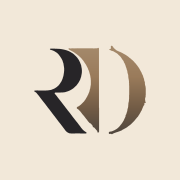
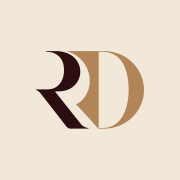
Re-trace the RD monogram from the clearer artwork in the site palette

Changed region(s): [[0.1944, 0.25, 0.8333, 0.75]]

diff --git a/components/Logo.jsx b/components/Logo.jsx
@@ -1,20 +1,12 @@
-// "RD" monogram, traced to vector from the supplied artwork. The R is the
-// ink colour and the D carries a bronze gradient; both follow the theme
-// (see --logo-* in globals.css) so the mark stays visible on dark backgrounds.
-// The favicon files in app/ are raster renders of the same artwork.
+// "RD" monogram, traced to vector from the supplied artwork and recoloured to
+// the site palette: the R takes the ink colour, the D the caramel accent, and
+// both follow the theme (--logo-r / --logo-d in globals.css) so the mark stays
+// visible on dark backgrounds. The favicon files in app/ are raster renders.
 export default function Logo() {
   return (
-    <svg viewBox="50.36 13.07 133.26 106.00" role="img" aria-label="RD">
-      <defs>
-        <linearGradient id="logo-d" gradientUnits="userSpaceOnUse" x1="0" y1="14.6" x2="0" y2="117.6">
-          <stop offset="0" style={{ stopColor: 'var(--logo-g0)' }} />
-          <stop offset="0.35" style={{ stopColor: 'var(--logo-g1)' }} />
-          <stop offset="0.7" style={{ stopColor: 'var(--logo-g2)' }} />
-          <stop offset="1" style={{ stopColor: 'var(--logo-g3)' }} />
-        </linearGradient>
-      </defs>
-      <path fill="var(--logo-r)" fillRule="evenodd" d="M70.63 17.74 70.24 18.14 70.29 18.45 70.53 18.69 73.50 19.73 75.12 20.47 77.88 22.19 79.00 23.13 80.31 24.50 82.08 26.88 83.76 29.50 84.81 31.62 85.99 35.50 86.73 40.50 86.75 43.12 85.92 49.38 84.74 53.25 83.44 56.12 81.82 58.62 80.35 60.50 77.88 62.74 75.88 64.07 74.38 64.82 71.38 65.98 68.50 66.46 65.00 66.75 56.88 66.75 55.12 66.62 52.75 66.76 52.05 66.99 51.86 67.26 51.90 67.58 54.24 69.39 57.04 72.75 88.10 113.38 89.75 115.08 90.88 115.83 92.50 116.61 95.12 116.99 104.50 116.88 111.38 117.00 112.36 116.85 112.75 116.47 112.58 115.89 109.25 113.35 106.66 110.50 102.29 104.62 96.80 97.75 92.70 92.25 76.03 70.88 75.58 70.00 75.80 69.41 76.50 69.03 82.00 69.00 86.50 68.71 88.00 68.45 91.25 67.41 93.62 66.39 97.00 64.33 101.06 60.62 103.29 57.62 105.33 53.88 106.50 50.38 107.11 47.25 107.38 44.88 107.20 41.12 106.48 37.12 105.34 34.12 103.52 30.50 102.06 28.38 100.75 26.88 97.12 23.52 92.38 20.72 89.88 19.73 87.25 18.97 82.50 18.07 75.25 17.63z" />
-      <path fill="url(#logo-d)" fillRule="evenodd" d="M92.61 17.42 92.30 17.69 92.27 18.02 92.91 18.85 98.38 21.98 101.75 24.39 104.12 26.32 106.78 28.89 109.49 32.25 112.57 37.00 114.24 40.25 115.49 43.25 117.03 48.38 117.74 52.38 118.00 56.12 117.82 60.62 117.27 63.88 116.34 67.50 114.86 71.25 112.19 76.25 110.11 79.24 106.12 83.29 102.25 86.07 101.86 86.67 101.85 87.34 102.33 88.07 104.25 89.76 105.86 91.50 115.29 103.36 118.64 106.27 119.53 107.38 120.62 109.22 122.31 110.59 124.86 113.50 125.93 115.31 126.33 115.56 126.69 115.53 127.09 115.23 127.35 114.72 127.50 113.12 127.38 19.25 127.22 17.68 126.89 17.17 126.22 16.98 124.50 17.22 121.50 17.34 102.62 17.24zM142.30 14.57 141.92 14.69 141.65 14.99 141.20 17.19 140.85 17.67 139.97 18.39 139.97 18.74 141.38 19.62 144.12 20.63 145.50 21.34 148.25 23.01 150.05 24.51 152.33 26.75 153.53 28.25 156.06 32.00 157.96 35.88 160.41 43.12 161.61 48.38 161.95 51.75 162.56 55.50 162.88 62.62 162.71 76.38 162.50 78.88 161.94 82.00 161.63 85.62 160.39 91.25 158.20 97.88 156.49 101.62 154.84 104.38 152.19 107.88 150.12 110.10 148.25 111.64 145.62 113.20 142.88 114.40 140.16 115.09 139.36 115.73 139.20 116.58 139.65 117.22 140.27 117.40 142.38 117.57 143.38 117.38 145.88 116.29 153.12 113.70 159.88 109.91 163.88 106.91 165.75 105.24 168.67 102.25 172.86 97.25 174.83 94.25 177.08 90.25 179.15 85.51 180.18 83.60 180.71 81.84 181.80 80.49 181.37 76.75 182.02 72.62 182.12 65.62 181.95 62.75 181.27 59.62 180.96 56.88 179.94 52.88 178.79 49.38 176.98 45.38 174.74 41.25 171.44 36.50 167.25 31.78 161.12 26.66 158.62 24.97 154.75 22.78 148.00 19.56 145.40 17.41 143.28 14.99 142.73 14.65z" />
+    <svg viewBox="414.0 266.4 653.0 415.9" role="img" aria-label="RD">
+      <path fill="var(--logo-r)" fillRule="evenodd" d="M418.5 271.2 418.0 272.0 418.2 272.8 419.3 273.5 420.7 273.7 550.3 273.7 557.7 274.0 569.3 275.5 577.0 277.0 584.0 278.9 596.3 283.8 602.7 287.3 610.3 292.6 616.0 297.4 621.6 303.0 627.9 311.3 631.6 317.3 635.4 325.3 638.4 334.0 640.2 340.3 641.9 349.0 643.0 356.3 643.7 369.7 643.7 375.7 642.9 386.7 640.6 400.7 637.8 411.3 634.7 419.7 631.1 427.3 627.1 434.0 623.0 440.0 619.3 444.7 612.7 451.3 603.7 458.4 598.7 461.5 594.7 463.6 586.7 467.0 582.7 468.3 572.0 470.6 557.3 472.0 499.3 472.0 497.5 472.6 497.0 473.4 497.1 474.0 498.0 475.0 505.3 478.8 510.0 482.1 513.7 485.3 519.9 492.0 582.5 571.7 625.2 626.7 652.7 662.7 657.4 668.3 661.7 672.0 666.0 674.8 670.0 676.4 675.0 677.6 680.7 678.0 688.0 678.0 691.3 677.7 707.7 677.7 710.3 677.9 713.0 677.7 762.3 677.7 765.7 678.0 770.0 677.6 771.2 677.1 771.4 676.0 770.3 675.0 761.0 672.8 756.7 671.5 745.0 665.7 741.3 663.1 737.0 659.3 732.4 654.3 685.8 596.0 633.5 529.7 599.8 487.7 597.4 484.0 597.8 482.9 599.3 482.4 625.7 481.6 635.7 480.6 641.7 479.6 654.7 476.4 661.0 474.3 668.3 471.4 680.0 465.2 686.7 460.8 691.7 456.9 699.0 450.3 703.2 445.7 709.2 438.3 712.9 432.7 716.7 426.0 720.7 417.7 722.6 413.0 725.5 403.7 727.2 395.7 728.3 386.3 728.7 380.3 728.3 371.3 727.2 362.3 725.5 354.0 721.7 342.0 718.9 335.7 714.3 327.0 709.8 320.0 703.9 312.3 698.0 306.0 689.3 298.4 680.0 291.9 672.3 287.4 660.7 281.9 650.3 278.2 643.7 276.3 635.3 274.4 621.7 272.1 609.7 271.0 435.0 271.0 431.7 270.7 419.3 270.8z" />
+      <path fill="var(--logo-d)" fillRule="evenodd" d="M663.7 270.9 663.2 271.4 663.2 272.0 664.7 273.3 674.3 276.7 687.3 282.2 704.0 291.3 711.0 296.1 721.3 303.9 730.7 312.3 741.6 324.3 751.6 337.3 756.4 345.0 761.1 353.7 764.2 360.0 768.5 371.0 772.2 381.7 774.8 392.3 776.9 404.0 778.3 417.3 778.3 435.3 776.9 450.3 773.8 465.7 771.6 473.3 765.4 489.0 761.4 497.0 756.0 506.7 746.9 519.0 738.7 528.3 728.3 537.6 723.7 541.1 717.7 545.0 708.0 550.3 707.2 551.1 707.0 552.0 707.7 553.2 712.0 556.2 716.0 559.7 731.3 575.7 767.7 616.0 779.6 628.7 805.6 657.7 815.4 669.3 822.3 676.3 824.0 677.4 832.0 678.3 840.0 678.3 843.7 678.0 861.3 678.0 865.3 677.5 870.3 676.4 877.3 676.3 889.3 674.9 899.0 672.9 915.0 668.9 929.3 664.0 937.0 660.9 946.3 656.6 957.7 650.7 969.7 643.6 987.0 631.1 1002.7 617.3 1019.2 598.7 1025.2 590.7 1030.9 582.3 1036.2 573.7 1041.9 563.3 1047.2 552.0 1051.7 540.7 1054.9 531.0 1058.9 515.3 1062.0 496.3 1063.0 477.0 1062.6 465.3 1062.0 455.3 1059.9 440.0 1056.2 423.3 1053.1 412.7 1049.6 403.0 1045.9 394.0 1039.1 380.0 1028.0 361.7 1016.9 347.0 1007.3 336.3 994.3 323.7 985.0 315.5 969.3 304.6 959.3 298.4 953.3 295.6 945.7 291.3 934.3 286.5 925.0 283.0 916.7 280.4 901.3 276.3 895.7 275.1 885.7 273.9 875.3 272.1 862.7 271.0 833.7 271.0 824.7 270.4 821.3 270.7 759.3 270.7 755.7 271.0 747.7 271.0 744.3 270.7 735.0 270.7 731.7 271.0 725.0 270.7 705.3 270.7 701.7 271.0 693.7 271.0 690.3 270.7 665.3 270.7zM832.0 273.7 852.0 274.4 871.0 276.1 889.0 281.4 902.7 287.1 910.3 291.3 918.7 296.5 928.7 305.0 939.2 316.0 943.5 321.3 949.4 329.7 957.6 344.3 964.7 361.0 969.7 375.3 973.8 390.7 976.9 405.3 978.9 417.3 982.0 445.7 982.3 454.3 982.7 480.0 981.6 504.0 978.9 526.0 976.5 540.7 973.5 555.0 968.8 571.3 965.0 582.3 961.1 592.3 956.2 602.7 949.9 614.0 941.4 627.0 935.2 634.7 931.0 639.3 922.7 647.3 917.7 651.3 905.3 659.5 889.7 667.1 881.3 669.7 864.7 673.6 848.7 675.0 827.3 674.9 826.4 674.6 825.6 673.9 825.0 672.0 825.3 663.3 825.3 277.3 825.7 275.4 826.7 274.4z" />
     </svg>
   )
 }

diff --git a/app/globals.css b/app/globals.css
@@ -28,8 +28,8 @@
   --band-muted: #c9b9a0;
   --band-accent: #c79e6f;
   --focus: #7a5428;
-  --logo-r: #272528;
-  --logo-g0: #a58a6c; --logo-g1: #9a7b5b; --logo-g2: #735c46; --logo-g3: #4f463e;
+  --logo-r: #2c0e11;
+  --logo-d: #b28558;
   color-scheme: light;
 
   --space-1: 4px;
@@ -58,7 +58,7 @@
     --accent-text: #c79e6f;
     --focus: #c79e6f;
     --logo-r: #f2e8d9;
-    --logo-g0: #d9b684; --logo-g1: #c79e6f; --logo-g2: #a8845a; --logo-g3: #8a6c4a;
+    --logo-d: #c79e6f;
     color-scheme: dark;
   }
 }
@@ -72,7 +72,7 @@
   --accent-text: #c79e6f;
   --focus: #c79e6f;
   --logo-r: #f2e8d9;
-  --logo-g0: #d9b684; --logo-g1: #c79e6f; --logo-g2: #a8845a; --logo-g3: #8a6c4a;
+  --logo-d: #c79e6f;
   color-scheme: dark;
 }
 
@@ -160,7 +160,7 @@ img { display: block; max-width: 100%; height: auto; }
 }
 .site-header .wrap { display: flex; align-items: center; justify-content: space-between; min-height: 60px; }
 .logo { display: inline-flex; align-items: center; line-height: 0; border-radius: 6px; }
-.logo svg { height: 38px; width: auto; display: block; transition: transform 0.2s ease; }
+.logo svg { height: 34px; width: auto; display: block; transition: transform 0.2s ease; }
 .logo:hover svg { transform: translateY(-1px); }
 .nav { display: flex; align-items: center; gap: var(--space-5); font-size: 0.9375rem; }
 .nav a { text-decoration: none; color: var(--muted); padding: var(--space-2) 0; }
